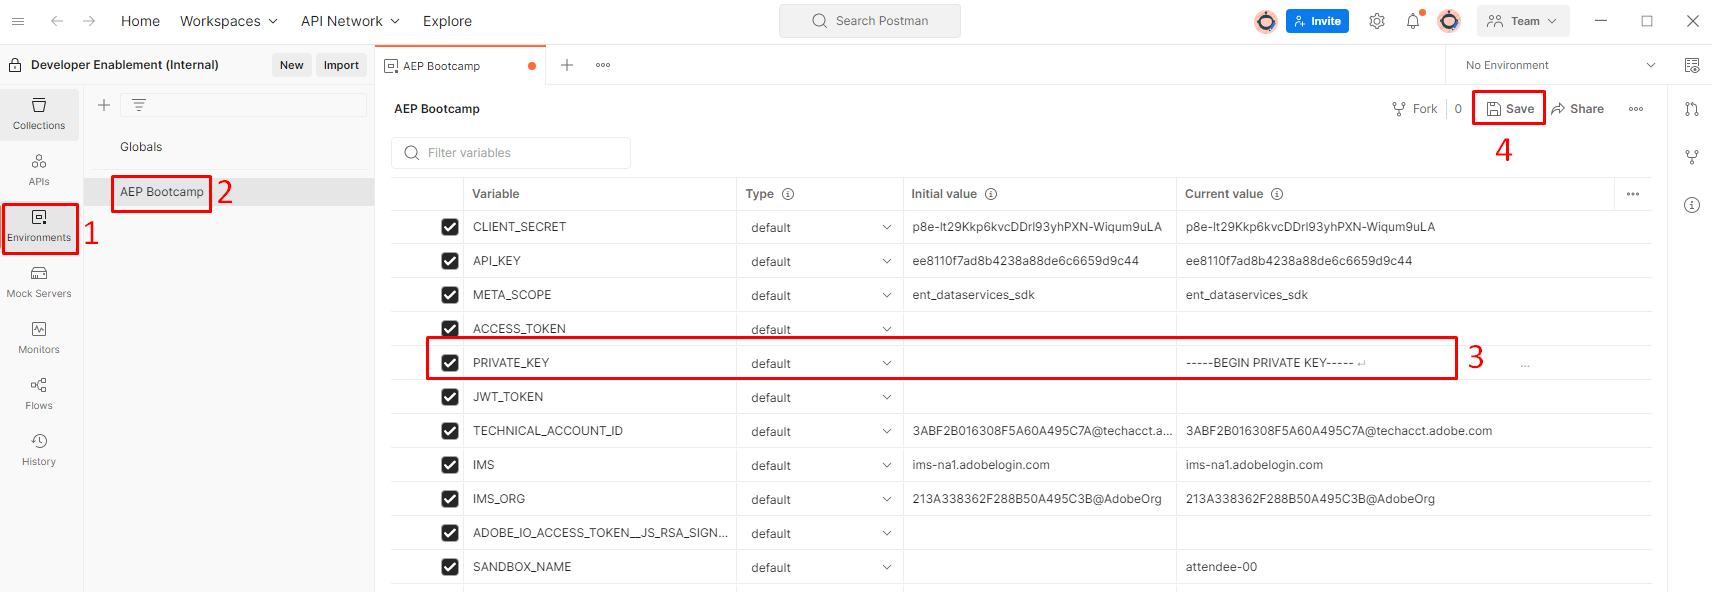
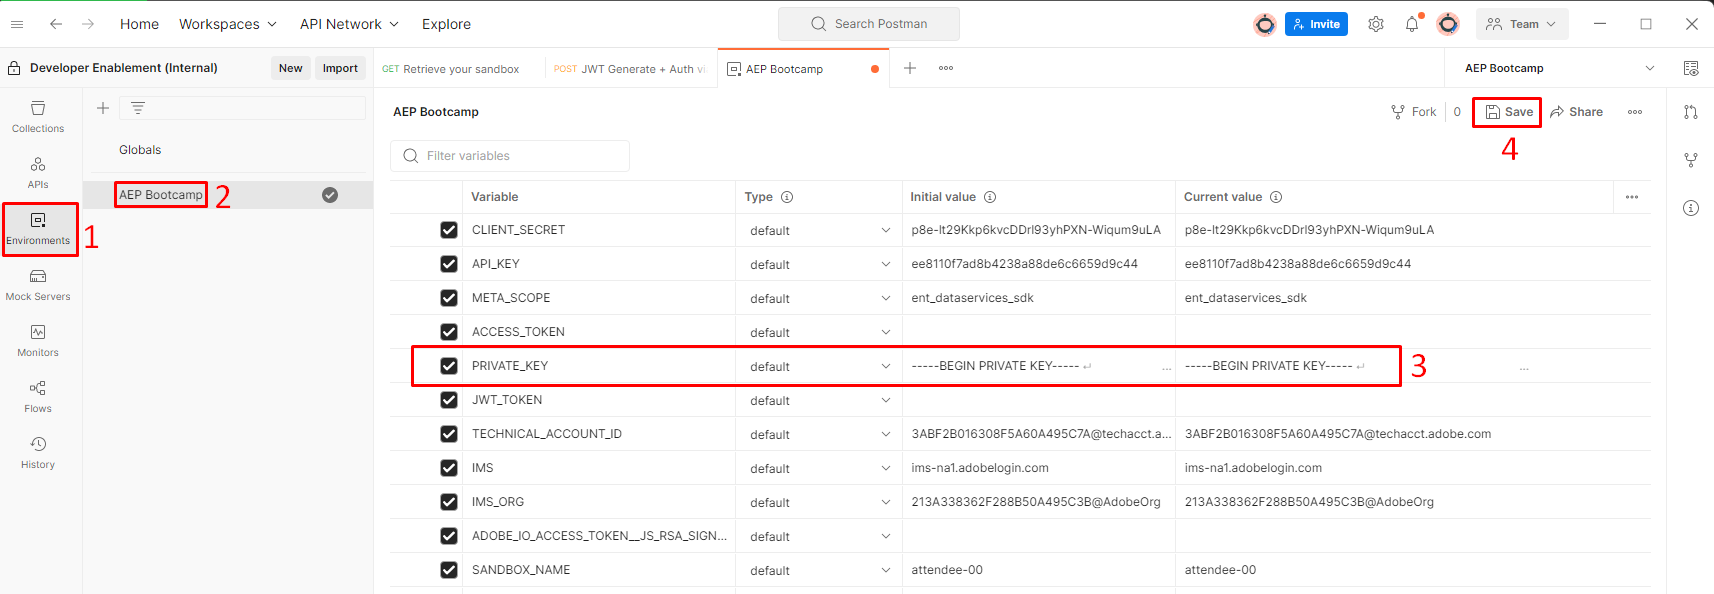
GITBOOK-32: change request with no subject merged in GitBook

diff --git a/dep-schema-api-lab-manual/environment/generate-access-token.md b/dep-schema-api-lab-manual/environment/generate-access-token.md
@@ -38,7 +38,8 @@ Now that you understand a little bit about how Adobe secures its API's and what 
 ## Authenticate with Postman
 
 1. Launch Postman and navigate to the directory titled `IMS Authenticate` and open the request by clicking on it
-2. Execute the call by clicking the “Send” button
+2. Next in the upper right corner of Postman you'll see an environment drop-down. Select the `AEP Bootcamp` environment from the drop-down
+3. Now execute the call by clicking the “Send” button
 
 ![](<../../.gitbook/assets/14 (1).png>)
 
@@ -48,19 +49,25 @@ A successful response should look like this
 
 
 
-
-
-Before you continue we want to double check that your access is legit. Perform the following steps:
-
-* Open the folder titled `Check Sandbox Access` and click on the call titled `Retrieve Your Sandbox`
-* Next in the upper right corner of Postman you'll see an Environment drop-down box.  Be sure to select the `AEP Bootcamp` environment
-* Execute the call by clicking the `Send` button
-
 ## Common Errors
 
-*
+### **Invalid Token**
 
-**Invalid IMS**
+This occurs when the `private_key` in your environment file is malformed or no longer valid. If you see this ensure you have copied the entire key including the entire key with line breaks
+
+Example:
+
+```
+-----BEGIN PRIVATE KEY----- 
+some uber long varchar set is here
+-----END PRIVATE KEY----- 
+```
+
+<figure><img src="../../.gitbook/assets/400-bad-jwt.png" alt=""><figcaption><p>400 invalid_token</p></figcaption></figure>
+
+
+
+
 
 ![Graphical user interface, text, application, email
 

diff --git a/dep-schema-api-lab-manual/environment/import-api-collection.md b/dep-schema-api-lab-manual/environment/import-api-collection.md
@@ -44,7 +44,7 @@ Your sandbox value and private key can be found within the Microsoft Teams folde
 
 1. Click on the `Environments` tab in the left sidebar of Postman
 2. Next click on the `AEP Bootcamp` environment file
-3. Locate the `SANDBOX_NAME` variable and update the `Current Value` to your sandbox name
+3. Locate the `SANDBOX_NAME` variable and update the `Initial and Current values` to your sandbox name
 4. Save your updates by clicking the `Save` button in the top right of the environment workspace
 
 When you are done your environment file should look like this:
@@ -57,7 +57,7 @@ When you are done your environment file should look like this:
 
 1. Open your environment file again if you closed it.  This time you will be adding the private key.
 2. Copy the value of the private key from the teams location noted in the [Environment Variables](import-api-collection.md#environment-variables) section
-3. Located the `PRIVATE_KEY` variable and update the `Current Value` with the private key from step 2
+3. Located the `PRIVATE_KEY` variable and update both the  `Initial and Current values` with the private key from step 2
 4. Save your updates by clicking the `Save` button in the top right of the environment workspace
 
 When you are done your environment file should look like this:
